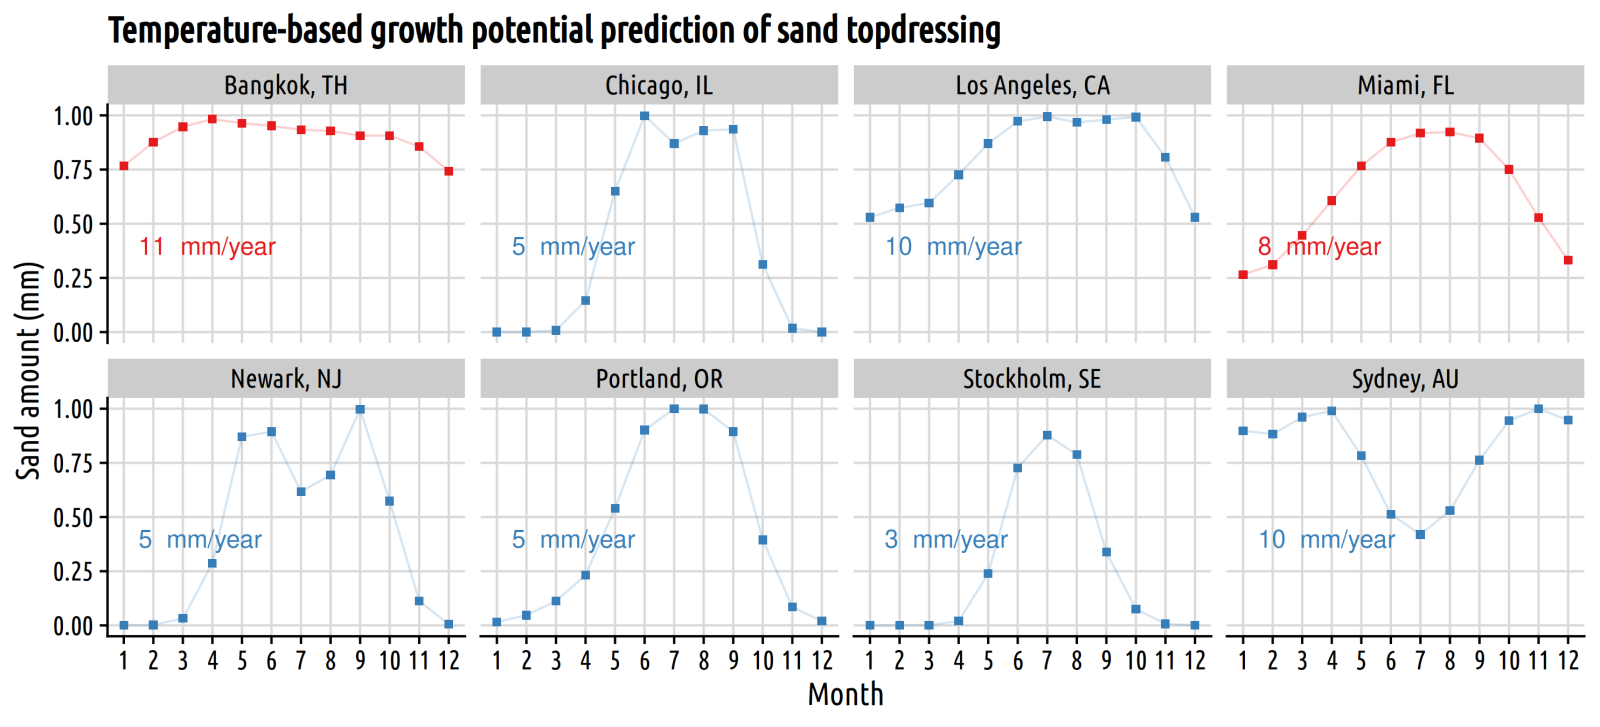
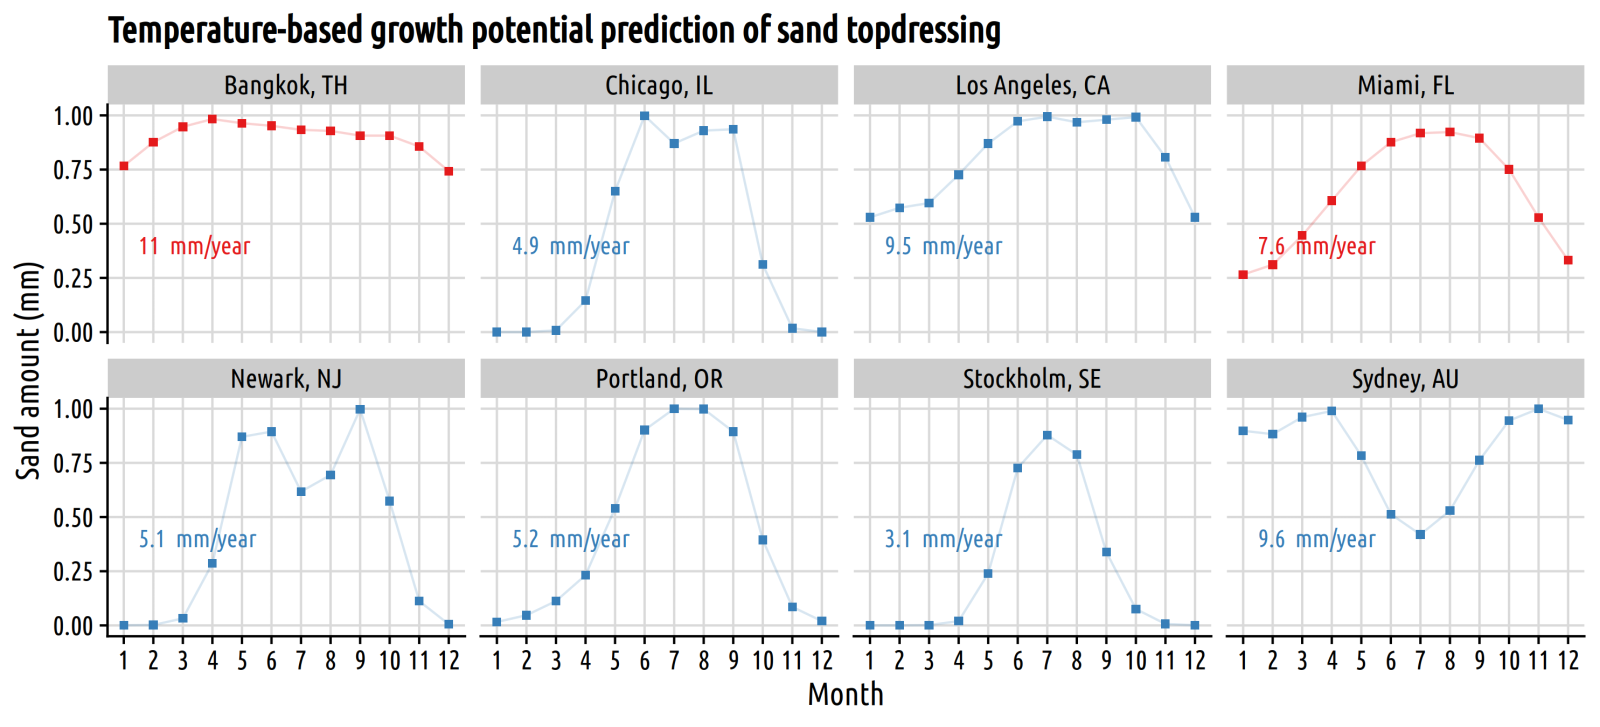
update chart and post

diff --git a/_posts/2020-08-03-updated-sand-topdressing-by-gp.md b/_posts/2020-08-03-updated-sand-topdressing-by-gp.md
@@ -20,21 +20,21 @@ With the new default, you'll get numbers like this. I've calculated these for wa
 
 ![chart of monthly sand amounts at 8 cities](/img/sand_topdressing_gp_updated.png)
 
-The spreadsheets previously had a default starting value that produced results matching the low rate of [Hempfling et al.'s sand topdressing amounts]( https://doi.org/10.2135/cropsci2016.06.0492). That starting value has always been adjustable within the spreadsheet. After some recent conversations with Larry, he's decided to update the default starting value to match the high rate of Hempfling et al.
+The spreadsheets previously had a default starting value that produced results matching the low rate of [Hempfling et al.'s sand topdressing amounts]( https://doi.org/10.2135/cropsci2016.06.0492). That starting value has always been adjustable within the spreadsheet. After some recent conversations with Dr. Stowell, he's decided to update the default starting value to match the high rate of Hempfling et al.
 
 I think it makes sense to use the higher rate as a default because:
 
 1. The higher rate in Hempfling et al. had less disease, faster green speed, and better turf quality.
 
-2. [Schmid et al.](https://dx.doi.org/10.2134/ATS-2014-0031-BR) found that "greens receiving an annual sand topdressing rate of 20.3 ft<sup>3</sup>/1000 ft<sup>2</sup> [6 mm] were consistently $\leq 3.3%$ soil organic matter" in the top 3 inches (7.6 cm). Based on these survey results, which were obtained from a large survey of greens from 15 US states, there is an expectation that 6 mm is a reasonable starting point number.
+2. [Schmid et al.](https://dx.doi.org/10.2134/ATS-2014-0031-BR) found that "greens receiving an annual sand topdressing rate of 20.3 ft<sup>3</sup>/1000 ft<sup>2</sup> [6 mm] were consistently $$\leq 3.3%$$ soil organic matter" in the top 3 inches (7.6 cm). Based on these survey results, which were obtained from a large survey of greens from 15 US states, there is an expectation that 6 mm is a reasonable starting point number.
 
 3. [Whitlark and Thompson](https://gsr.lib.msu.edu/article/whitlark-thompson-light-5-3-19.pdf) wrote about light and frequent topdressing in the USGA *Green Section Record* in 2019. About the amount of sand to apply, they wrote that "trends observed by USGA agronomists suggest that 25 to 35 cubic feet of sand per 1,000 square feet per year [that's 7.6 to 10.7 mm] is a good annual target to adequately dilute organic matter."
 
-The topdressing spreadsheets have always had the option to change the maximum monthly sand amount. With the new default, however, the values are calibrated to be almost identical to those that gave the best results for Hempfling et al., and will be close to the values suggested by Schmid et al. and by Whitlark and Thompson.
+With the new default setting, the values are calibrated to be almost identical to those that gave the best results for Hempfling et al., and will be close to the values suggested by Schmid et al. and by Whitlark and Thompson.
 
-The [temperature-based growth potential](http://www.files.asianturfgrass.com/201306_growth_potential.pdf) makes two further adjustments. It adjusts the annual amount of sand for your site, based on temperature. And it allocates that site-specific amount of sand into monthly increments at your location. In the chart shown above, you see that Portland, Stockholm, and Los Angeles all have different annual amounts using this method. I like how the growth potential approach allows one to take a standard recommendation and then adjust it to a site-specific recommendation.
+From that general starting point, the [temperature-based growth potential](http://www.files.asianturfgrass.com/201306_growth_potential.pdf) makes two adjustments. It adjusts the annual amount of sand for your site, based on temperature. Because Stockholm is not Los Angeles, and Portland is not Newark. And it allocates that site-specific amount of sand into monthly increments at your location. The growth potential approach allows one to take a standard recommendation and then adjust it to a site-specific recommendation.
 
-If you are measuring how much the grass grows by keeping track of clipping volume, then I suggest considering a sand application rate of about 1 mm for every 1 L of clippings removed.
+If you are measuring how much the grass grows by keeping track of clipping volume, then I suggest considering a sand application rate of about 1 cm<sup>3</sup> for every 1 cm<sup>3</sup> of clipping volume. That works out to 1 mm of sand for each 1 L/m<sup>2</sup> of clipping volume.
 
 For more, see:
 
